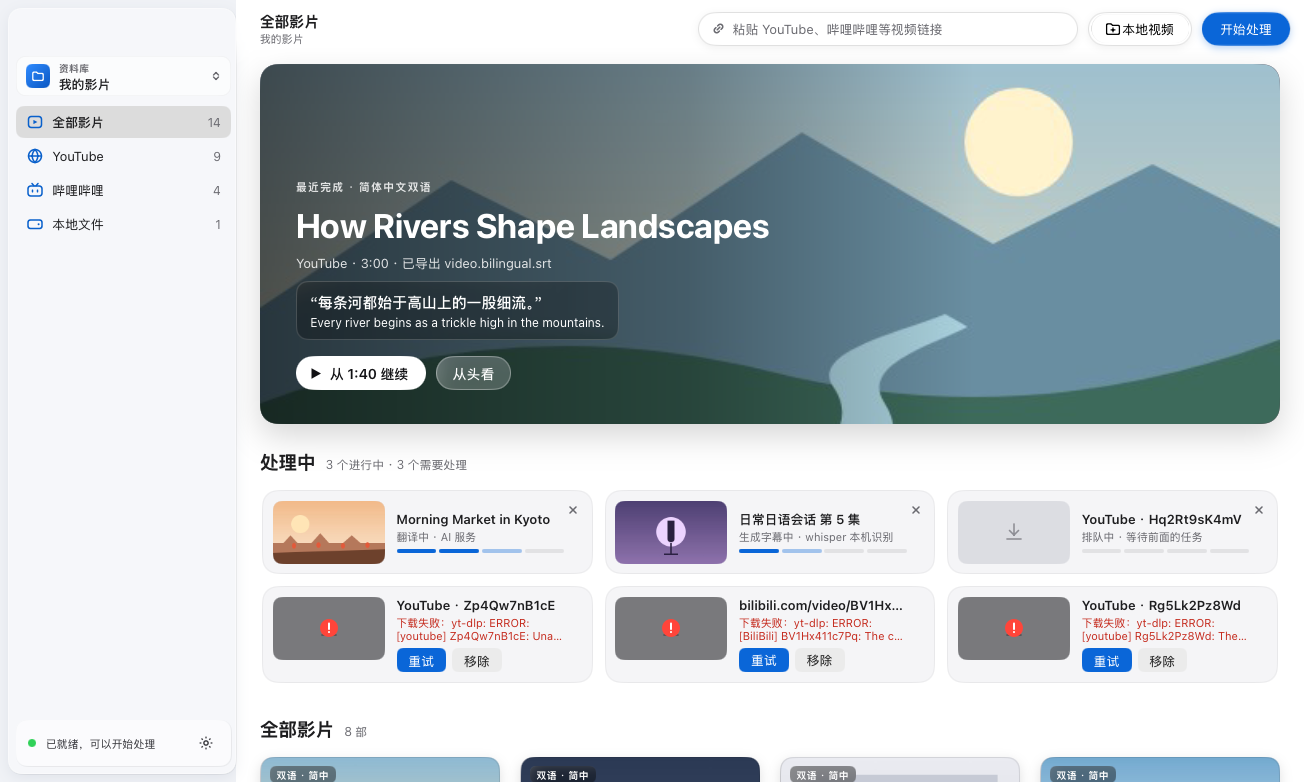
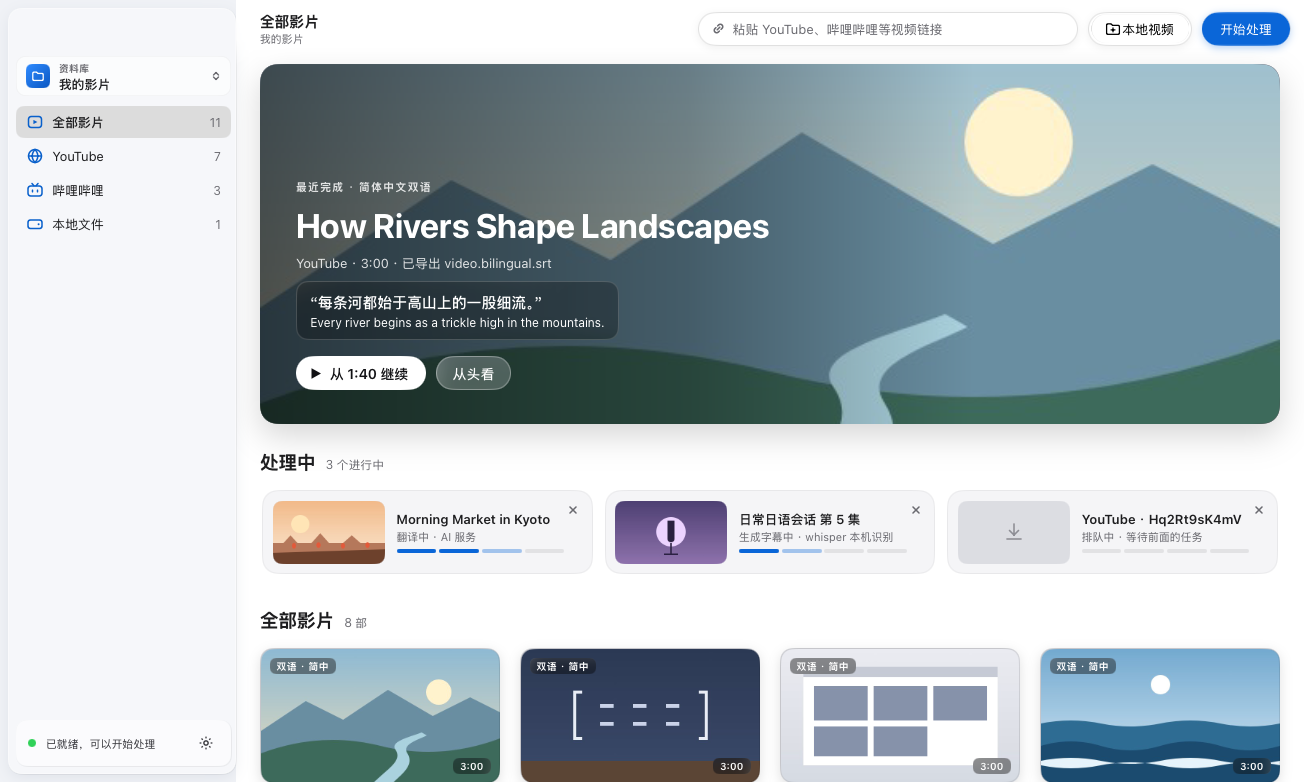
docs: show the library without failed jobs in the README pictures
The library is the first picture of the READMEs and the landing page and the one link previews show, and its three red download-failed cards read as a broken app. TestScreenshotsReadme now renders it without the failed jobs, and docs/assets/<lang>/library.png is rendered again in all five languages; the other three pictures come out byte for byte the same.

Changed region(s): [[0.184, 0.7366, 0.9816, 1.0], [0.3067, 0.5831, 0.3681, 0.6138]]

diff --git a/apps/kando/screenshot_readme_test.go b/apps/kando/screenshot_readme_test.go
@@ -1,17 +1,22 @@
 package main
 
 import (
+	"slices"
 	"testing"
 
 	"kando/apps/kando/settings"
+	"kando/packages/core"
 
 	"github.com/egoist/mygo/ui"
 )
 
-// TestScreenshotsReadme renders the four pictures the READMEs show, in the language of KANDO_SCREENSHOTS_LANG with the fixture's content for its reader (useProtoContent): the library with the status line ready, the player on the first line of How Rivers Shape Landscapes with the side panel's list of lines, and Settings › 通用 and › AI 服务. docs/assets/<lang>/ keeps them as library.png, player.png, settings-general.png and settings-ai.png.
+// TestScreenshotsReadme renders the four pictures the READMEs show, in the language of KANDO_SCREENSHOTS_LANG with the fixture's content for its reader (useProtoContent): the library with the status line ready and no failed job, the player on the first line of How Rivers Shape Landscapes with the side panel's list of lines, and Settings › 通用 and › AI 服务. docs/assets/<lang>/ keeps them as library.png, player.png, settings-general.png and settings-ai.png.
 func TestScreenshotsReadme(t *testing.T) {
 	f := newScreenshotFixture(t)
-	f.shoot(t, "readme-library", func(a *app, tt *ui.Tester, _ chan func()) {
+	// The library is the first picture of the READMEs and the landing page, and the one link previews show, so 处理中 shows the running and queued jobs without the prototype's failed ones, whose red cards would read as a broken app.
+	working := *f
+	working.jobs = slices.DeleteFunc(slices.Clone(f.jobs), func(job core.Job) bool { return job.Stage == core.StageFailed })
+	working.shoot(t, "readme-library", func(a *app, tt *ui.Tester, _ chan func()) {
 		screenshotReady(t, f, a)
 		tt.Frame()
 	})
